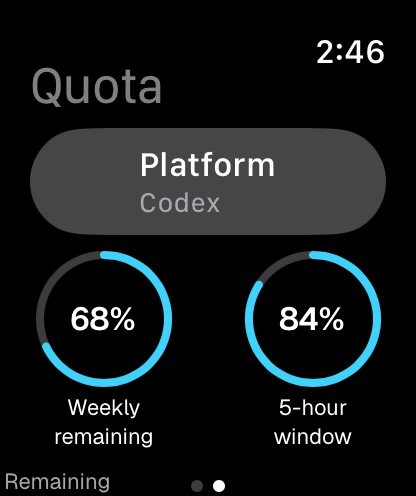
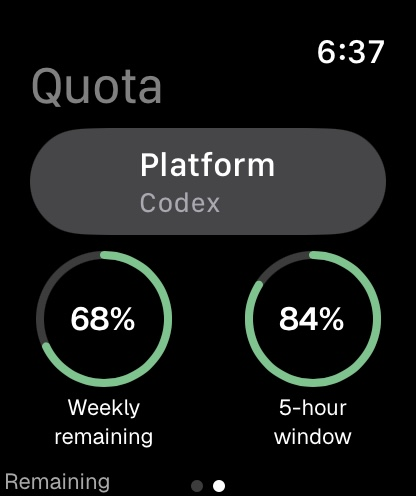
docs: retake the eight store screenshots changed by ticket 10 and the iOS merge; Voice decision B in the design doc

Changed region(s): [[0.5625, 0.4839, 0.9375, 0.7863], [0.0938, 0.4839, 0.4375, 0.7863], [0.75, 0.0605, 0.9375, 0.1512]]

diff --git a/docs/app-store-screenshots/1.3.14/README.md b/docs/app-store-screenshots/1.3.14/README.md
@@ -16,8 +16,7 @@
 ## 当前素材边界
 
 - **演示数据只用于说明界面。** 任务状态、审批命令、提问选项、额度百分比和模型名称都是 `VIBEBUDDY_DEMO=1` 内置的固定样例，不构成真实 Agent 兼容性、通知送达、真实审批或额度验证。样例项目名、分支、命令和模型名保留英文。
-- **中文环境仍有未翻译文案**：任务表内 “Model”“Token”“Transcript”，配对参考页第 2 步正文 “Open “Pair a phone” in the Mac menu bar…”，以及工具类型 “BASH”“EDIT”。图片没有替换这些文字；若发布前完善本地化，应从最终成品重拍受影响页面。
-- 任务表把当前状态显示为 “Requires input / 待回应”，而列表行显示 “Needs approval / 待批准”，两处用词不一致；这是界面现状，未做修饰。
+- **2026-09-13 第二轮**：任务表的 “Model / Token / Transcript” 已译（模型 / Token 数 / 对话记录），任务表状态词与列表行一致（Needs approval / 待批准），配对参考页第 2 步正文已译；工具类型 “BASH”“EDIT” 按设计保留英文（动词部分中文）。受影响的 8 张已按下文重拍，配对参考页与手表任务概览未变，沿用第一轮。
 - Watch 拍的是 **App 内任务与额度页面**，不是表盘小组件。额度页可滚动，本图只含平台与两个环形进度；下方内容仍在滚动页中。
 - 图片来自 Release 模拟器构建，不是 Distribution archive 或真机验收；版本号仍是源码树中的 1.3.13(27)，1.3.14 的版本号递增和送审构建另行产生。发布 build 若改变界面或本地化，应重拍受影响页面。
 - 全部 12 张状态为 **未上传**。
@@ -66,3 +65,7 @@
 ## 本轮更新（2026-09-13）
 
 移动端 10 张按 Cursor 视觉语言从 `29dabd5` 的 Release 模拟器构建重新采集；Mac 两张来自 Mac 端单独一轮。全部未上传。截图不代表真实 Mac 配对、通知送达、手表组件验收或 Apple 审核通过。
+
+### 第二轮重拍（2026-09-13，源码 HEAD 见 `manifest.json` 的 `recaptured`）
+
+工单 10（风格残留）与 iOS Cursor 对齐分支合流后，界面变化涉及 8 张：iOS `01-dashboard`、`02-codex-task`（en-US / zh-Hans）、macOS `01-dashboard-approval`（en-US / zh-Hans）、watchOS `02-quota`（en-US / zh-Hans）。全部从分支 `feat/style-residue` 的 Release 产物重拍：iOS / watchOS 用专用模拟器（iPhone 17 Pro Max、Apple Watch Series 11 46mm，iOS / watchOS 26.5，拍完即删），`simctl io screenshot --type=jpeg`，无后期处理；任务表由 App 新增的 `VIBEBUDDY_DEMO_PAGE=task/<title>` 演示开关打开，不再需要临时 XCUITest。Mac 两张由 Release 构建改 bundle id `com.vibebuddy.store-shots` 后以 1280×800 窗口采集并转为 RGB JPEG。手表模拟器不支持状态栏覆盖，时间为系统时间。`reviewer/ios-pairing` 与 `watchos/01-task-overview` 的视图未变，沿用第一轮文件与哈希。全部仍 **未上传**；版本号仍是源码树中的 1.3.13(27)。

diff --git a/docs/design/mac-companion-redesign.md b/docs/design/mac-companion-redesign.md
@@ -167,9 +167,14 @@ secondary ink when neutral) on a hairline capsule — ADR-0017 §4's "a dot and
 a word", never a tinted fill. Counts and dates are `SettingsValue` text; a
 pill says a state ("No devices"), not a number. Diagnostics shows product
 words for the delivery enums (Allowed / Denied / Not asked yet; Attempted /
-Scheduled / Accepted / Failed / Skipped), not raw cases. Voice's control line
-keeps the provider popup at its natural width and stacks the three cells
-when they would otherwise truncate.
+Scheduled / Accepted / Failed / Skipped), not raw cases. Voice's feature
+rows are two tiers (decision B, 2026-09-13): the provider popup at its
+natural width with the row's own action (Test / Sample) on the first line,
+then **Model** and **Voice** under small labels on the second — two columns
+while both fit (they do at 920 and 1080), stacked otherwise; never a smaller
+face or a wider window. The voice menu shows the name and the vendor's
+character line; the voice ID sits in mono under the control with the
+catalog note, so the long label is layered, not cut.
 
 ## iPhone and Apple Watch
 
